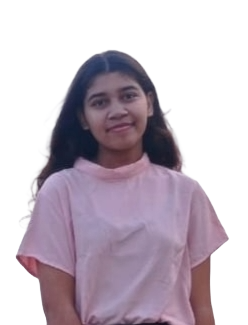
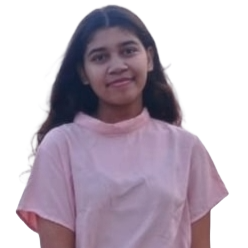
images fixed + advisor section created

diff --git a/pages/team/index.jsx b/pages/team/index.jsx
@@ -91,7 +91,7 @@ const Team = () => {
       Type: "Volunteer",
     },
     {
-      imgUrl: "Anandita .png",
+      imgUrl: "Anandita.png",
       personName: "Anandita Singh",
       Type: "Volunteer",
     },
@@ -122,6 +122,16 @@ const Team = () => {
     },
   ];
 
+  const advisors = [
+    {
+      personName: "Chaitali Choudhary",
+      imgUrl:
+        "https://res.cloudinary.com/dlu9czr7j/image/upload/v1694106528/opinhacks/chaitali_bba1ov.svg",
+      LinkedlnUrl: "https://www.linkedin.com/in/chaitali-choudhary-8402b925/",
+      Type: "Advisor",
+    },
+  ];
+
   return (
     <div className="relative text-white flex flex-col items-center min-h-screen md:pt-36 pt-24">
       <h1 className="text-4xl text-center px-8  font-semibold md:text-6xl ">
@@ -133,6 +143,22 @@ const Team = () => {
         </h1>
         <div className="grid md:grid-cols-4 grid-cols-2 justify-center md:gap-24 gap-4 mt-10">
           {organizer.map((item, index) => (
+            <ImageComponent
+              key={index}
+              imgUrl={item.imgUrl !== "" ? item.imgUrl : "bg-placeholder.png"}
+              personName={item.personName}
+              Type={item.Type}
+              size={"large"}
+            />
+          ))}
+        </div>
+      </div>
+      <div className="mt-12">
+        <h1 className=" text-primary text-3xl md:text-5xl text-center font-semibold md:font-extrabold">
+          Advisors
+        </h1>
+        <div className="grid justify-center md:gap-24 gap-4 mt-10">
+          {advisors.map((item, index) => (
             <ImageComponent
               key={index}
               imgUrl={item.imgUrl !== "" ? item.imgUrl : "bg-placeholder.png"}
